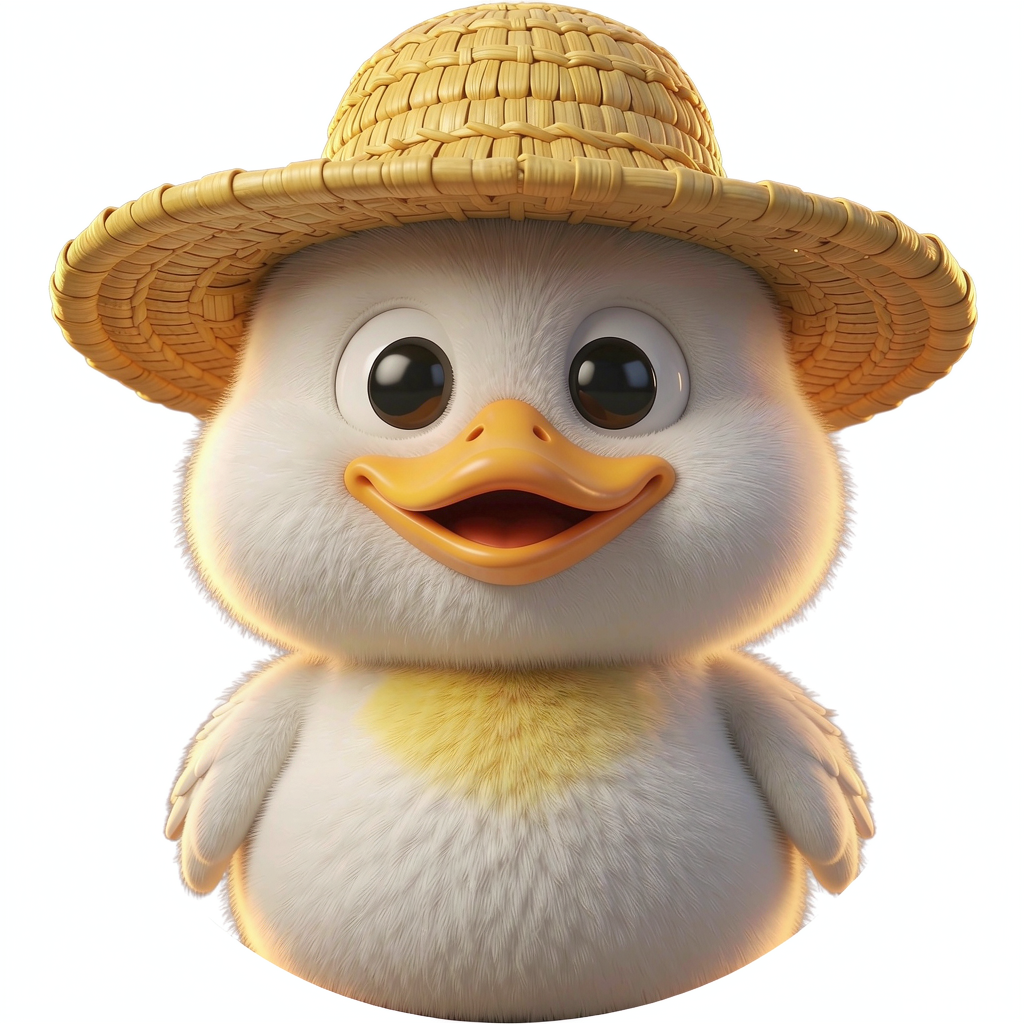
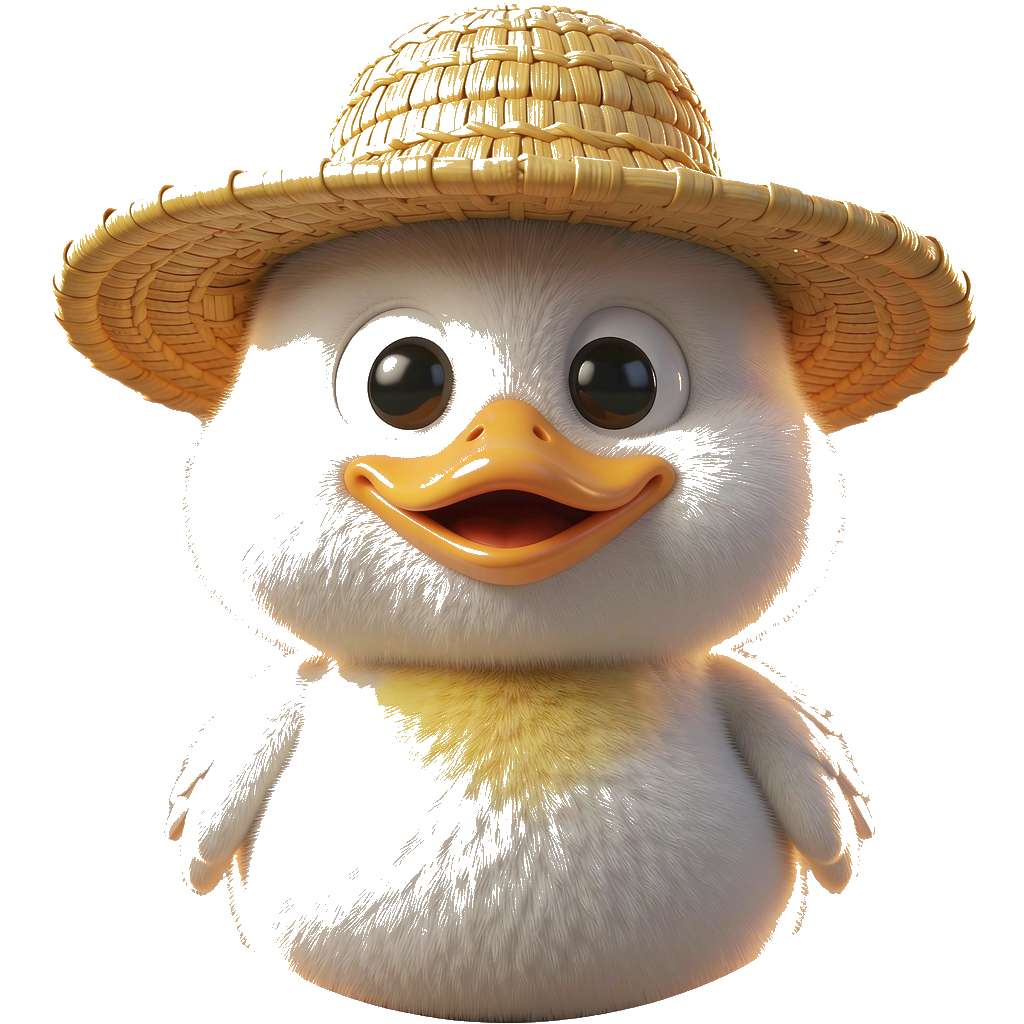
fix(ui): 图片白底转透明 + 快捷提问标签样式优化
- 8 张鹅主题素材批量去除白色背景
- 快捷提问改为圆角胶囊按钮，加阴影和悬浮效果

diff --git a/frontend/src/views/ChatView.vue b/frontend/src/views/ChatView.vue
@@ -259,12 +259,24 @@ onMounted(async () => {
 .welcome-text { color: #909399; font-size: 14px; margin: 0; }
 
 /* 快捷提问模板 */
-.quick-questions { display: flex; flex-wrap: wrap; justify-content: center; gap: 10px; margin-top: 20px; max-width: 600px; }
-.quick-tag { cursor: pointer; transition: all 0.2s; }
-.quick-tag:hover { transform: translateY(-2px); box-shadow: 0 2px 8px rgba(31, 111, 84, 0.2); }
+.quick-questions { display: flex; flex-wrap: wrap; justify-content: center; gap: 12px; margin-top: 24px; max-width: 640px; }
+.quick-tag {
+  cursor: pointer; padding: 10px 18px; border-radius: 20px;
+  background: #fff; border: 1px solid #e4e7ed; color: #1f6f54;
+  font-size: 14px; transition: all 0.3s ease;
+}
+.quick-tag:hover {
+  background: #1f6f54; color: #fff; border-color: #1f6f54;
+  transform: translateY(-2px); box-shadow: 0 4px 12px rgba(31, 111, 84, 0.25);
+}
 
 /* 消息头像 */
-.avatar { width: 40px; height: 40px; border-radius: 50%; object-fit: cover; flex-shrink: 0; margin-top: 2px; box-shadow: 0 1px 4px rgba(0,0,0,.12); }
+.avatar {
+  width: 40px; height: 40px; border-radius: 50%; object-fit: cover;
+  flex-shrink: 0; margin-top: 2px;
+  box-shadow: 0 2px 8px rgba(0,0,0,.1);
+  border: 2px solid #fff;
+}
 .msg-row.assistant .avatar { margin-right: 10px; }
 .msg-row.user .avatar { margin-left: 10px; }
 
